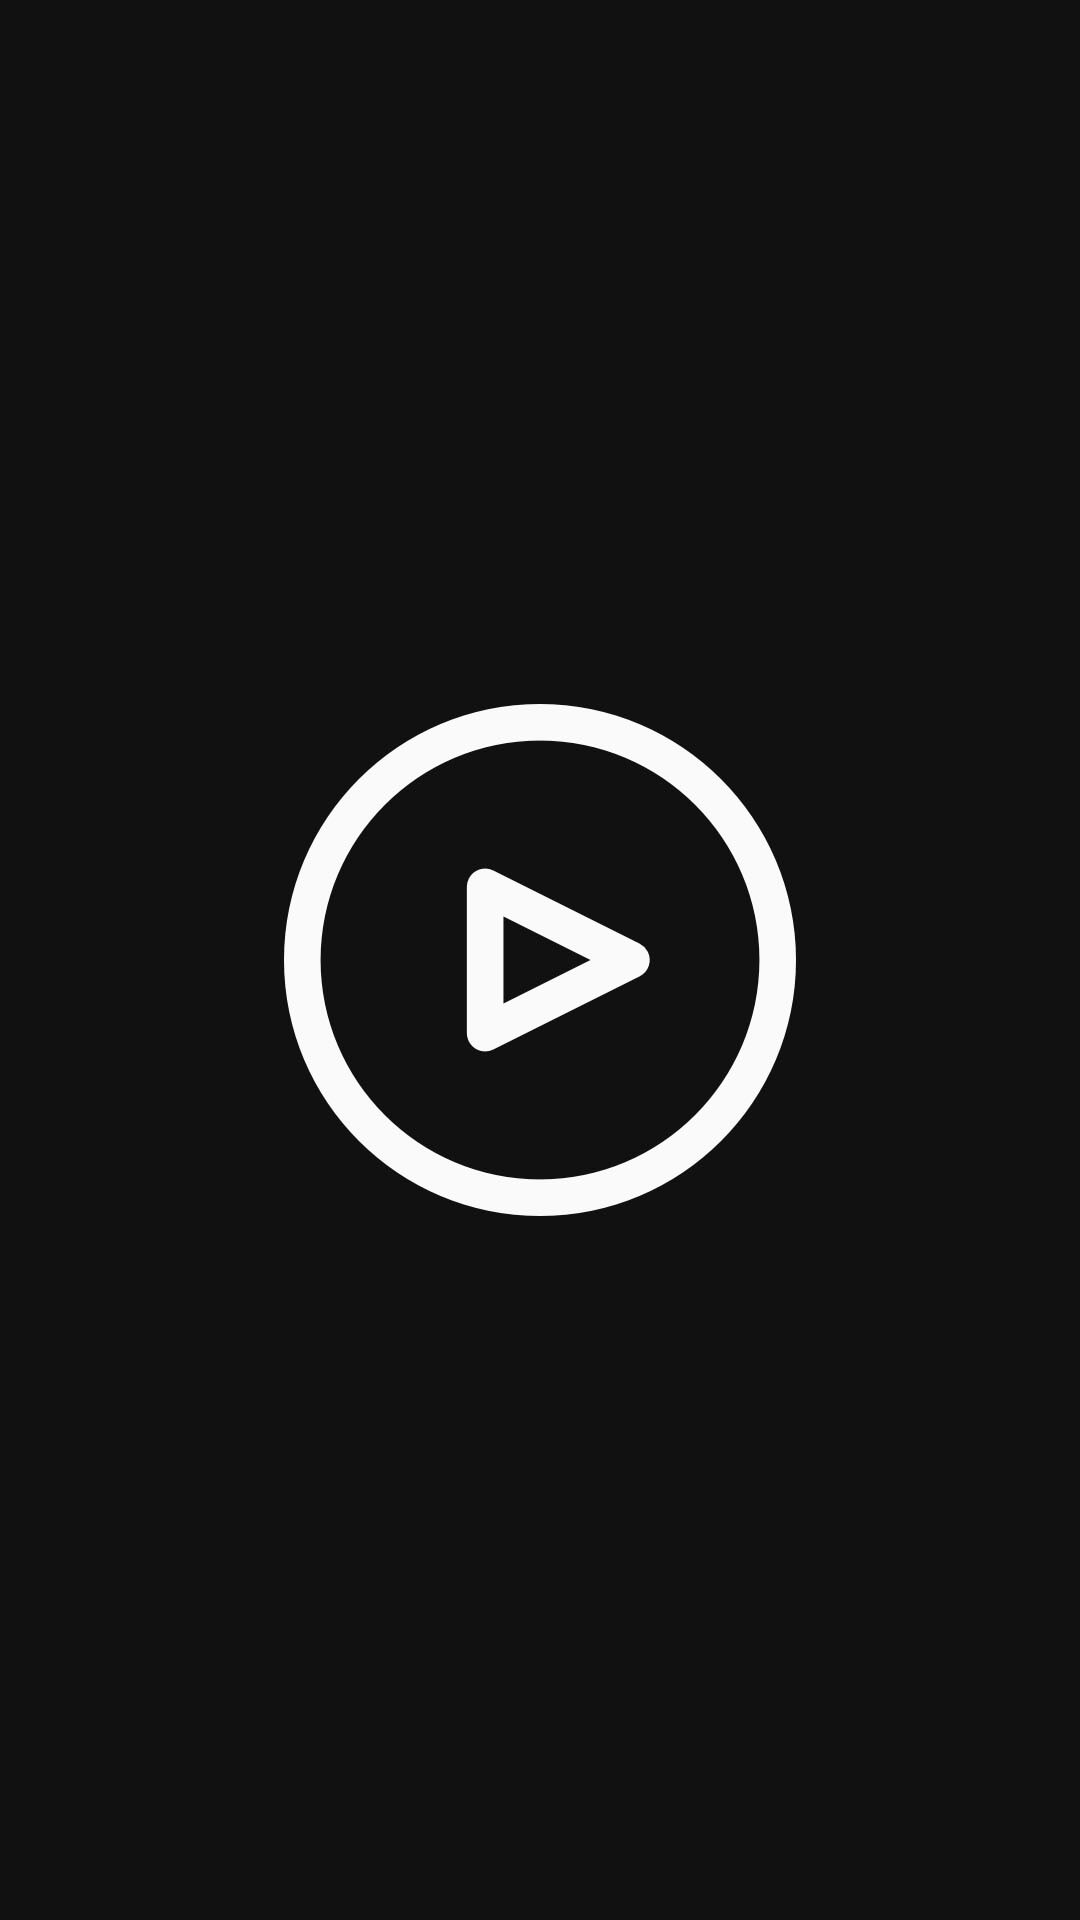
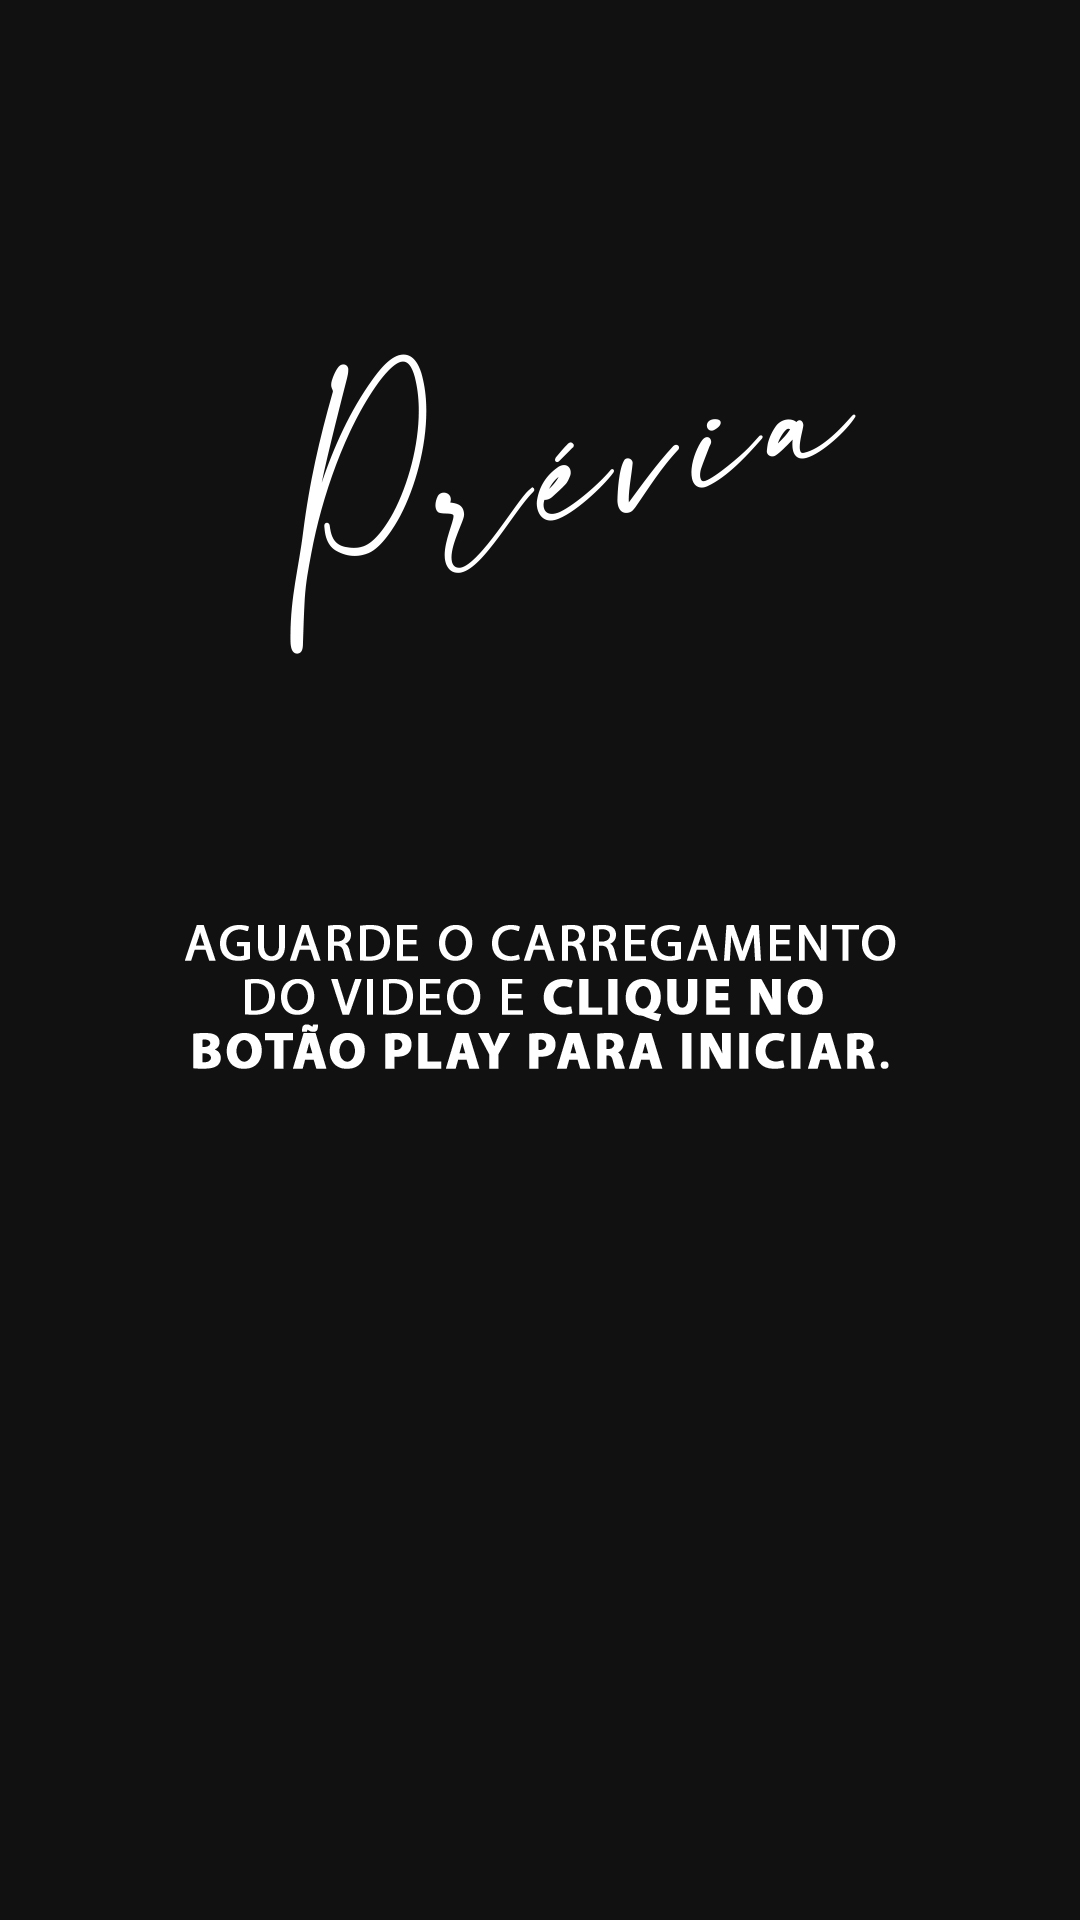
Video improvements

Changed region(s): [[0.1528, 0.3438, 0.825, 0.6562], [0.2444, 0.1875, 0.4583, 0.3438], [0.4583, 0.2188, 0.7639, 0.2812]]

diff --git a/videos/index.html b/videos/index.html
@@ -1,80 +1,95 @@
 <!DOCTYPE html>
 <html lang="pt-br">
-<head>
-<meta charset="UTF-8">
-<meta http-equiv="Cache-control" content="public">
-<meta http-equiv="Content-Language" content="pt-br">
-<title>Lady Nicole - Prévia do conteúdo</title>
-<meta name="viewport" content="width=device-width, initial-scale=1">
-<meta name="robots" content="noindex" />
-<link rel="stylesheet" href="video-js.css" media="all"/>
-<script async src="videojs-ie8.min.js"></script>
-<style>
-* {
-  box-sizing: border-box;
-}
+    <head>
+        <meta charset="UTF-8">
+        <meta http-equiv="Cache-control" content="public">
+        <meta http-equiv="Content-Language" content="pt-br">
+        <title>Lady Nicole - Prévia do conteúdo</title>
+        <meta name="viewport" content="width=device-width, initial-scale=1">
+        <meta name="robots" content="noindex" />
+    </head>
+    <body>
 
-body {
-  margin: 0;
-  font-family: Arial;
-  font-size: 17px;
-  background-color: #222;
-  color: white;
-}
+        <style>
 
-#section-preview {
-    display: flex;
-    justify-content: center;
-    align-items: center;
-}
+            * {
+                box-sizing: border-box;
+                margin: 0;
+                padding: 0;
+            }
+        
+            body {
+                font-family: Arial, Helvetica, sans-serif;
+                font-size: 17px;
+                background-color: #222;
+                color: white;
+            }
+        
+            .main-container {
+                width: 100%;
+                text-align: center;
+            }
 
-.rules-title {
-    text-align: center;
-    padding-top: 10px;
-    padding-bottom: 10px;
-}
+            .title-container {
+                width: 100%;
+                height: 15%;
+            }
 
-.link-text {
-  color: inherit;
-  text-decoration: inherit; 
-  text-align: center;
-}
-    
-</style>
-</head>
-<body>
+            .preview-video {
+                display: block;
+                width: 100%;
+                height: 70%;
+                margin-left: auto;
+                margin-right: auto;
+                max-width: 350px;
+                background-color: #222;
+            }
 
-    <div id="section-preview" class="rules" role="contentinfo">
-        <div class="rules-container">
-            <div class="rules-title">
-                Prévia do <b>Conteúdo</b>
+            .buy-button {
+                display: block;
+                width: 325px;
+                margin-top: 15px;
+                margin-left: auto;
+                margin-right: auto;
+                text-align: center;
+                border-radius: 15px;
+                border: 2px solid white;
+                padding: 10px;
+            }
+
+            .title-container {
+                padding-top: 10px;
+                padding-bottom: 10px;
+            }
+        
+            .text-button {
+                color: inherit;
+                text-decoration: inherit;
+            }    
+
+        </style>
+
+        <div class="main-container">
+            <div class="title-container">
+                <p>Prévia do <b>Conteúdo</b></p>
             </div>
-            <div class="rules-container">
-                <video
-                    id="preview-video"
-                    class="video-js"
-                    controls
-                    autoplay="true"
-                    preload="true"
-                    width="270"
-                    height="450"
-                    poster="video-cover.jpg"
-                    data-setup='{"poster":"video-cover.jpg"}'
-                >
-                    <source src="preview.mp4" type="video/mp4" />
-                    <source src="preview.webm" type="video/webm" />
-                    <p class="vjs-no-js">
-                        Para ver esse vídeo, utilize um navegador que suporte videos HTML5.
-                    </p>
-                </video>
-            </div>
-            <div class="rules-title">
-                <a href="https://meu.digital/p/8I8HXEA" target="_blank" class="link-text"><b>Assine agora!</b></a>
+            <video
+                id="video"
+                class="preview-video"
+                controls
+                poster="video-cover.jpg"
+                data-setup='{"poster":"video-cover.jpg"}'
+            >
+                <source src="preview.mp4" type="video/mp4" />
+                <source src="preview.webm" type="video/webm" />
+                <p>
+                    Para ver esse vídeo, utilize um navegador que suporte videos HTML5.
+                </p>
+            </video>
+            <div class="buy-button">
+                <a href="https://meu.digital/p/8I8HXEA" target="_blank" class="text-button"><p>Assine <b>agora</b>!</p></a>
             </div>
         </div>
-    </div>
 
-<script src="jquery.min.js"></script>
-
-</body>
+    </body>
 </html>
